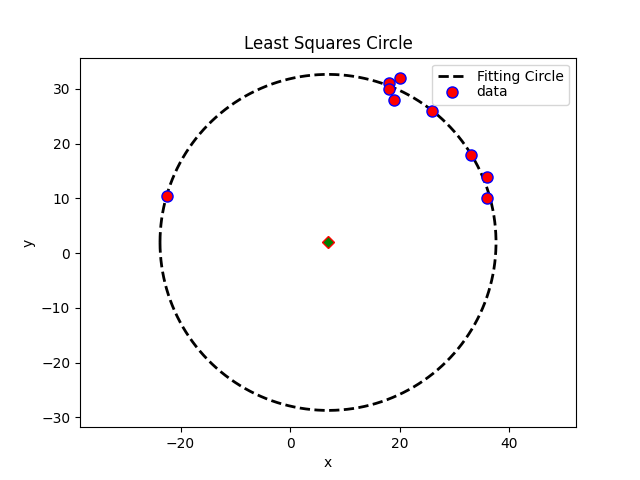
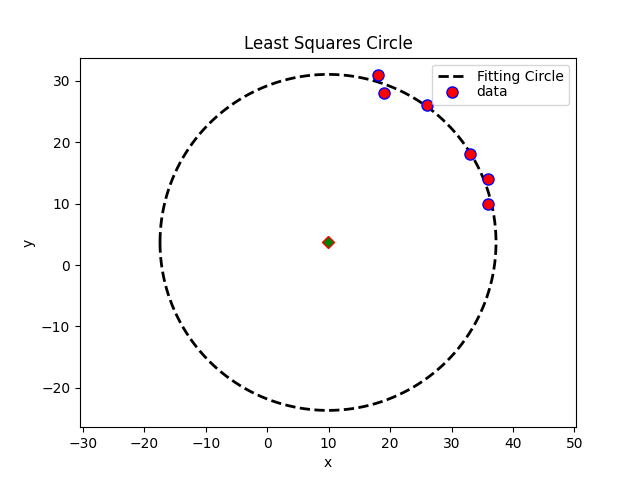
其他不重要修改

diff --git a/scripts/demo/最小二乘法拟合圆.py b/scripts/demo/最小二乘法拟合圆.py
@@ -3,27 +3,25 @@
 
 """
 This program is debugged by Harden Qiu
-
-容易牵一发而动全身 不要慌张
 """
 
 from numpy import *
 from scipy import optimize
 import functools
-from matplotlib import pyplot as p #, cm, colors
+from matplotlib import pyplot as p, cm, colors
 
-#method_2  = "Fitting Circle"
+method_2  = "Fitting Circle"
 
 # Coordinates of the 2D points
-x = r_[36, 36, 19, 18, 33, 26,18,20,-22.564] #
-y = r_[14, 10, 28, 31, 18, 26,30,32,10.457]  #
-#basename = 'arc'
+x = r_[36, 36, 19, 18, 33, 26]
+y = r_[14, 10, 28, 31, 18, 26]
+basename = 'arc'
 
 # 质心坐标
-x_m = mean(x) #x y的平均值 #
-y_m = mean(y)  #
+x_m = mean(x)
+y_m = mean(y)
 
-print('x_m=',x_m,'y_m=',y_m)
+print(x_m,y_m)
 
 #修饰器：用于输出反馈
 def countcalls(fn):
@@ -39,66 +37,63 @@ def countcalls(fn):
 
 def calc_R(xc, yc):
 
-    return sqrt((x - xc) ** 2 + (y - yc) ** 2) #求半径
+    return sqrt((x - xc) ** 2 + (y - yc) ** 2)
 
 @countcalls
 def f_2(c):
     Ri = calc_R(*c)
     return Ri - Ri.mean()
 
-def ys():
-    #圆心估计
-    center_estimate = x_m, y_m
-    center_2, _ = optimize.leastsq(f_2, center_estimate)  #最小二乘法
+#圆心估计
+center_estimate = x_m, y_m
+center_2, _ = optimize.leastsq(f_2, center_estimate)
 
-    xc_2, yc_2 = center_2
-    Ri_2       = calc_R(xc_2, yc_2)
-    #拟合圆的半径
-    R_2        = Ri_2.mean()
-    residu_2   = sum((Ri_2 - R_2)**2)
-    residu2_2  = sum((Ri_2**2-R_2**2)**2)
-    ncalls_2   = f_2.ncalls
-    return R_2
+xc_2, yc_2 = center_2
+Ri_2       = calc_R(xc_2, yc_2)
+#拟合圆的半径
+R_2        = Ri_2.mean()
+residu_2   = sum((Ri_2 - R_2)**2)
+residu2_2  = sum((Ri_2**2-R_2**2)**2)
+ncalls_2   = f_2.ncalls
 
 #输出列表
-# fmt = '%-22s %10.5f %10.5f %10.5f %10d %10.6f %10.6f %10.2f'
-# print (('\n%-22s' +' %10s'*7) % tuple('方法 Xc Yc Rc nb_calls std(Ri) residu residu2'.split()))
-# print('-'*(22 +7*(10+1)))
-# print(fmt % (method_2 , xc_2 , yc_2 , R_2 , ncalls_2 , Ri_2.std() , residu_2 , residu2_2 ))
-print(ys())
+fmt = '%-22s %10.5f %10.5f %10.5f %10d %10.6f %10.6f %10.2f'
+print (('\n%-22s' +' %10s'*7) % tuple('方法 Xc Yc Rc nb_calls std(Ri) residu residu2'.split()))
+print('-'*(22 +7*(10+1)))
+print(fmt % (method_2 , xc_2 , yc_2 , R_2 , ncalls_2 , Ri_2.std() , residu_2 , residu2_2 ))
 
 #输出图
-# p.close('all')
-#
-# def plot_all(residu2=False):
-#
-#     p.figure(facecolor='white')  # figsize=(7, 5.4), dpi=72,
-#     p.axis('equal')
-#
-#     theta_fit = linspace(-pi, pi, 180)
-#
-#     x_fit2 = xc_2 + R_2 * cos(theta_fit)
-#     y_fit2 = yc_2 + R_2 * sin(theta_fit)
-#     p.plot(x_fit2, y_fit2, 'k--', label=method_2, lw=2)
-#
-#     p.plot([xc_2], [yc_2], 'gD', mec='r', mew=1)
-#
-#     # draw
-#     p.xlabel('x')
-#     p.ylabel('y')
-#
-#
-#     # 数据
-#     p.plot(x, y, 'ro', label='data', ms=8, mec='b', mew=1)
-#     p.legend(loc='best', labelspacing=0.1)
-#
-#     #标题
-#     # p.grid()
-#     p.title('Least Squares Circle')
-#
-#     p.savefig('%s_residu%d.png' % (basename, 2 if residu2 else 1))
-#
-# # plot_all(residu2=False)
-# plot_all(residu2=True )
-#
-# p.show()
+p.close('all')
+
+def plot_all(residu2=False):
+
+    p.figure(facecolor='white')  # figsize=(7, 5.4), dpi=72,
+    p.axis('equal')
+
+    theta_fit = linspace(-pi, pi, 180)
+
+    x_fit2 = xc_2 + R_2 * cos(theta_fit)
+    y_fit2 = yc_2 + R_2 * sin(theta_fit)
+    p.plot(x_fit2, y_fit2, 'k--', label=method_2, lw=2)
+
+    p.plot([xc_2], [yc_2], 'gD', mec='r', mew=1)
+
+    # draw
+    p.xlabel('x')
+    p.ylabel('y')
+
+
+    # 数据
+    p.plot(x, y, 'ro', label='data', ms=8, mec='b', mew=1)
+    p.legend(loc='best', labelspacing=0.1)
+
+    #标题
+    # p.grid()
+    p.title('Least Squares Circle')
+
+    p.savefig('%s_residu%d.png' % (basename, 2 if residu2 else 1))
+
+# plot_all(residu2=False)
+plot_all(residu2=True )
+
+p.show()

diff --git a/scripts/video_test.py b/scripts/video_test.py
@@ -2,7 +2,7 @@ import cv2
 import numpy as np
 import math
 
-cap = cv2.VideoCapture(0)
+cap = cv2.VideoCapture(1)
 # fourcc = cv2.VideoWriter_fourcc(*'XVID')
 # out = cv2.VideoWriter('output.avi',fourcc,20.0,(640,480))
 

diff --git a/scripts/Network_client.py b/scripts/Network_client.py
@@ -2,7 +2,6 @@ from socket import *
 
 HOST = '169.254.200.85'
 PORT = 8080
-BUFSIZ = 1024
 ADDR = (HOST,PORT)
 
 tcpCliSock = socket(AF_INET,SOCK_STREAM)
